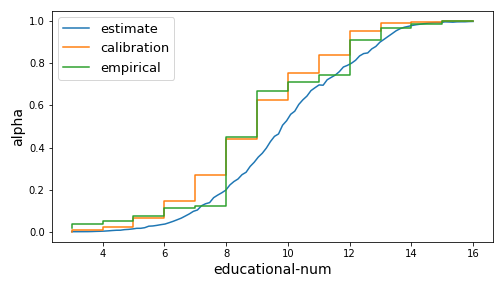
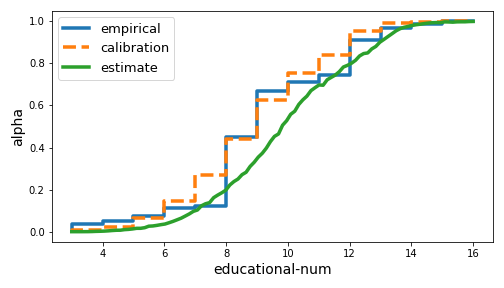
minor updates

diff --git a/calibration.py b/calibration.py
@@ -183,9 +183,12 @@ def main():
     
     fig, ax = plt.subplots(1, 1, figsize=(7, 4))
     
-    ax.plot(x_linspace_est, alpha_est, label="estimate")
-    ax.step(x_linspace, alpha_mono, label="calibration")
-    ax.step(x_linspace, emp, label="empirical")
+    ax.step(x_linspace, emp, label="empirical",
+            linewidth=3.5)
+    ax.step(x_linspace, alpha_mono, label="calibration",
+            linewidth=3.5, linestyle='--')
+    ax.plot(x_linspace_est, alpha_est, label="estimate",
+            linewidth=3.5)
     ax.set_xlabel(dataset.continuous[j], fontsize=14)
     ax.set_ylabel('alpha', fontsize=14)
     
